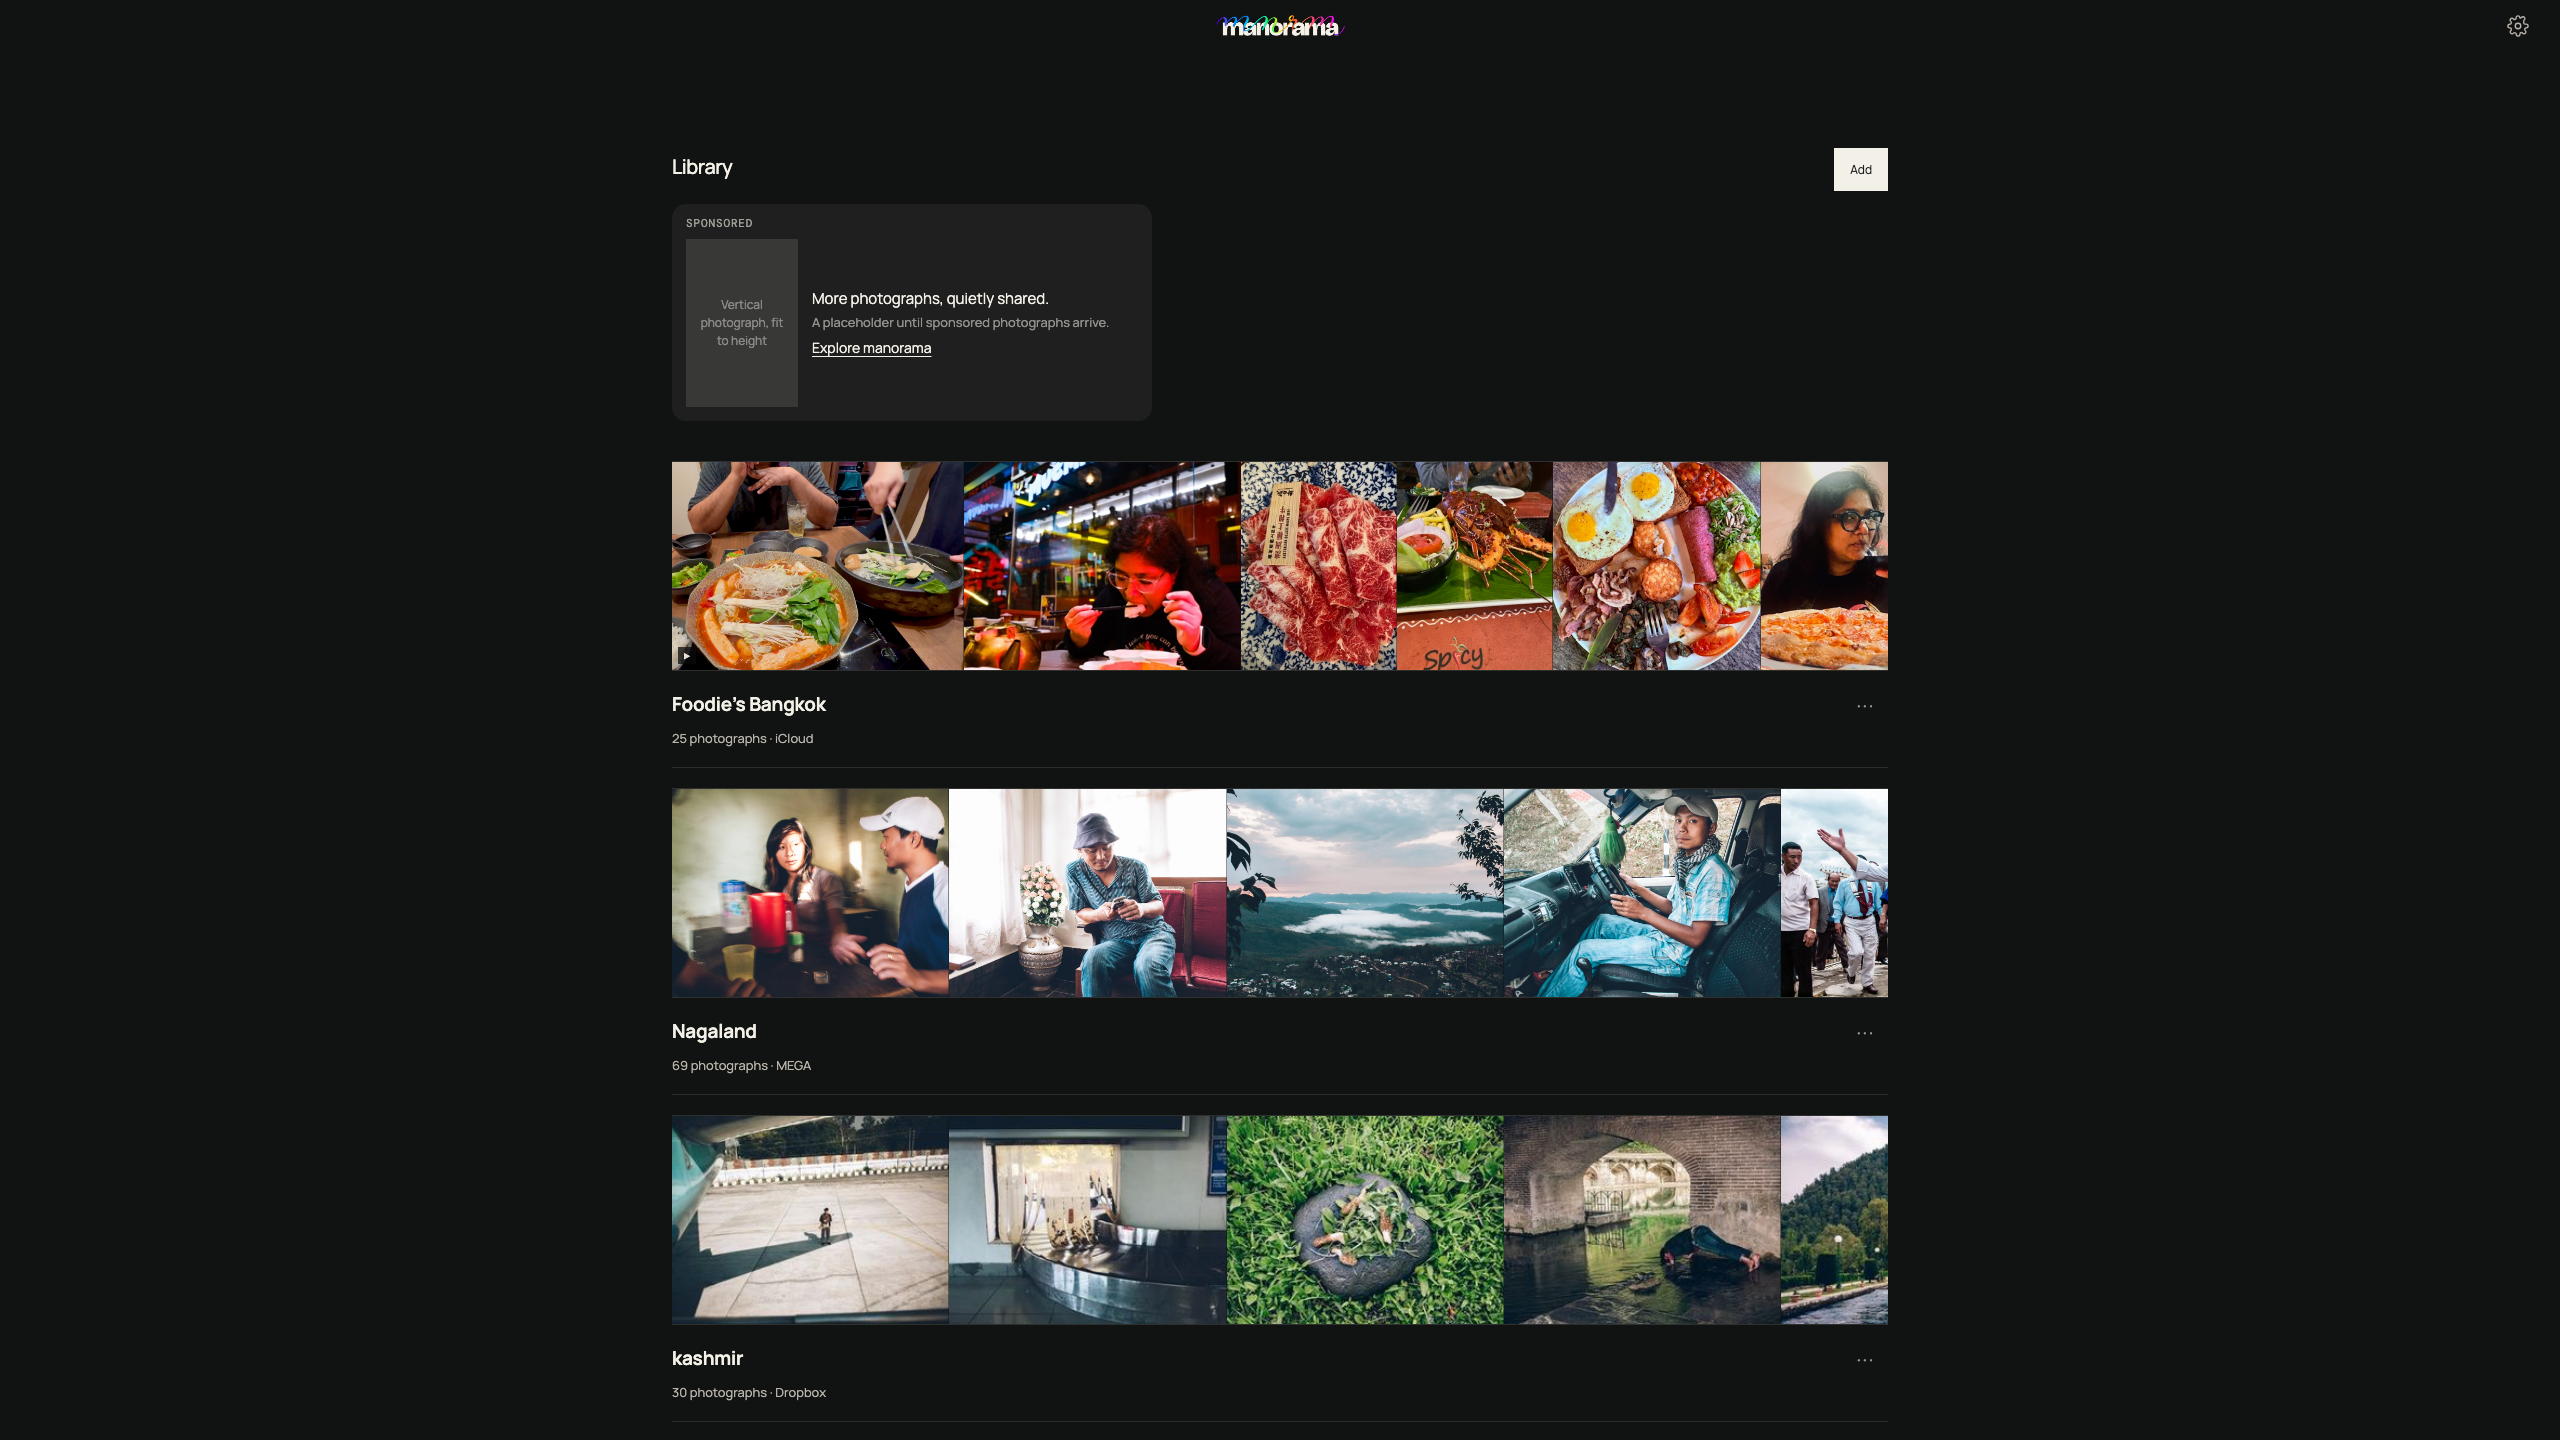
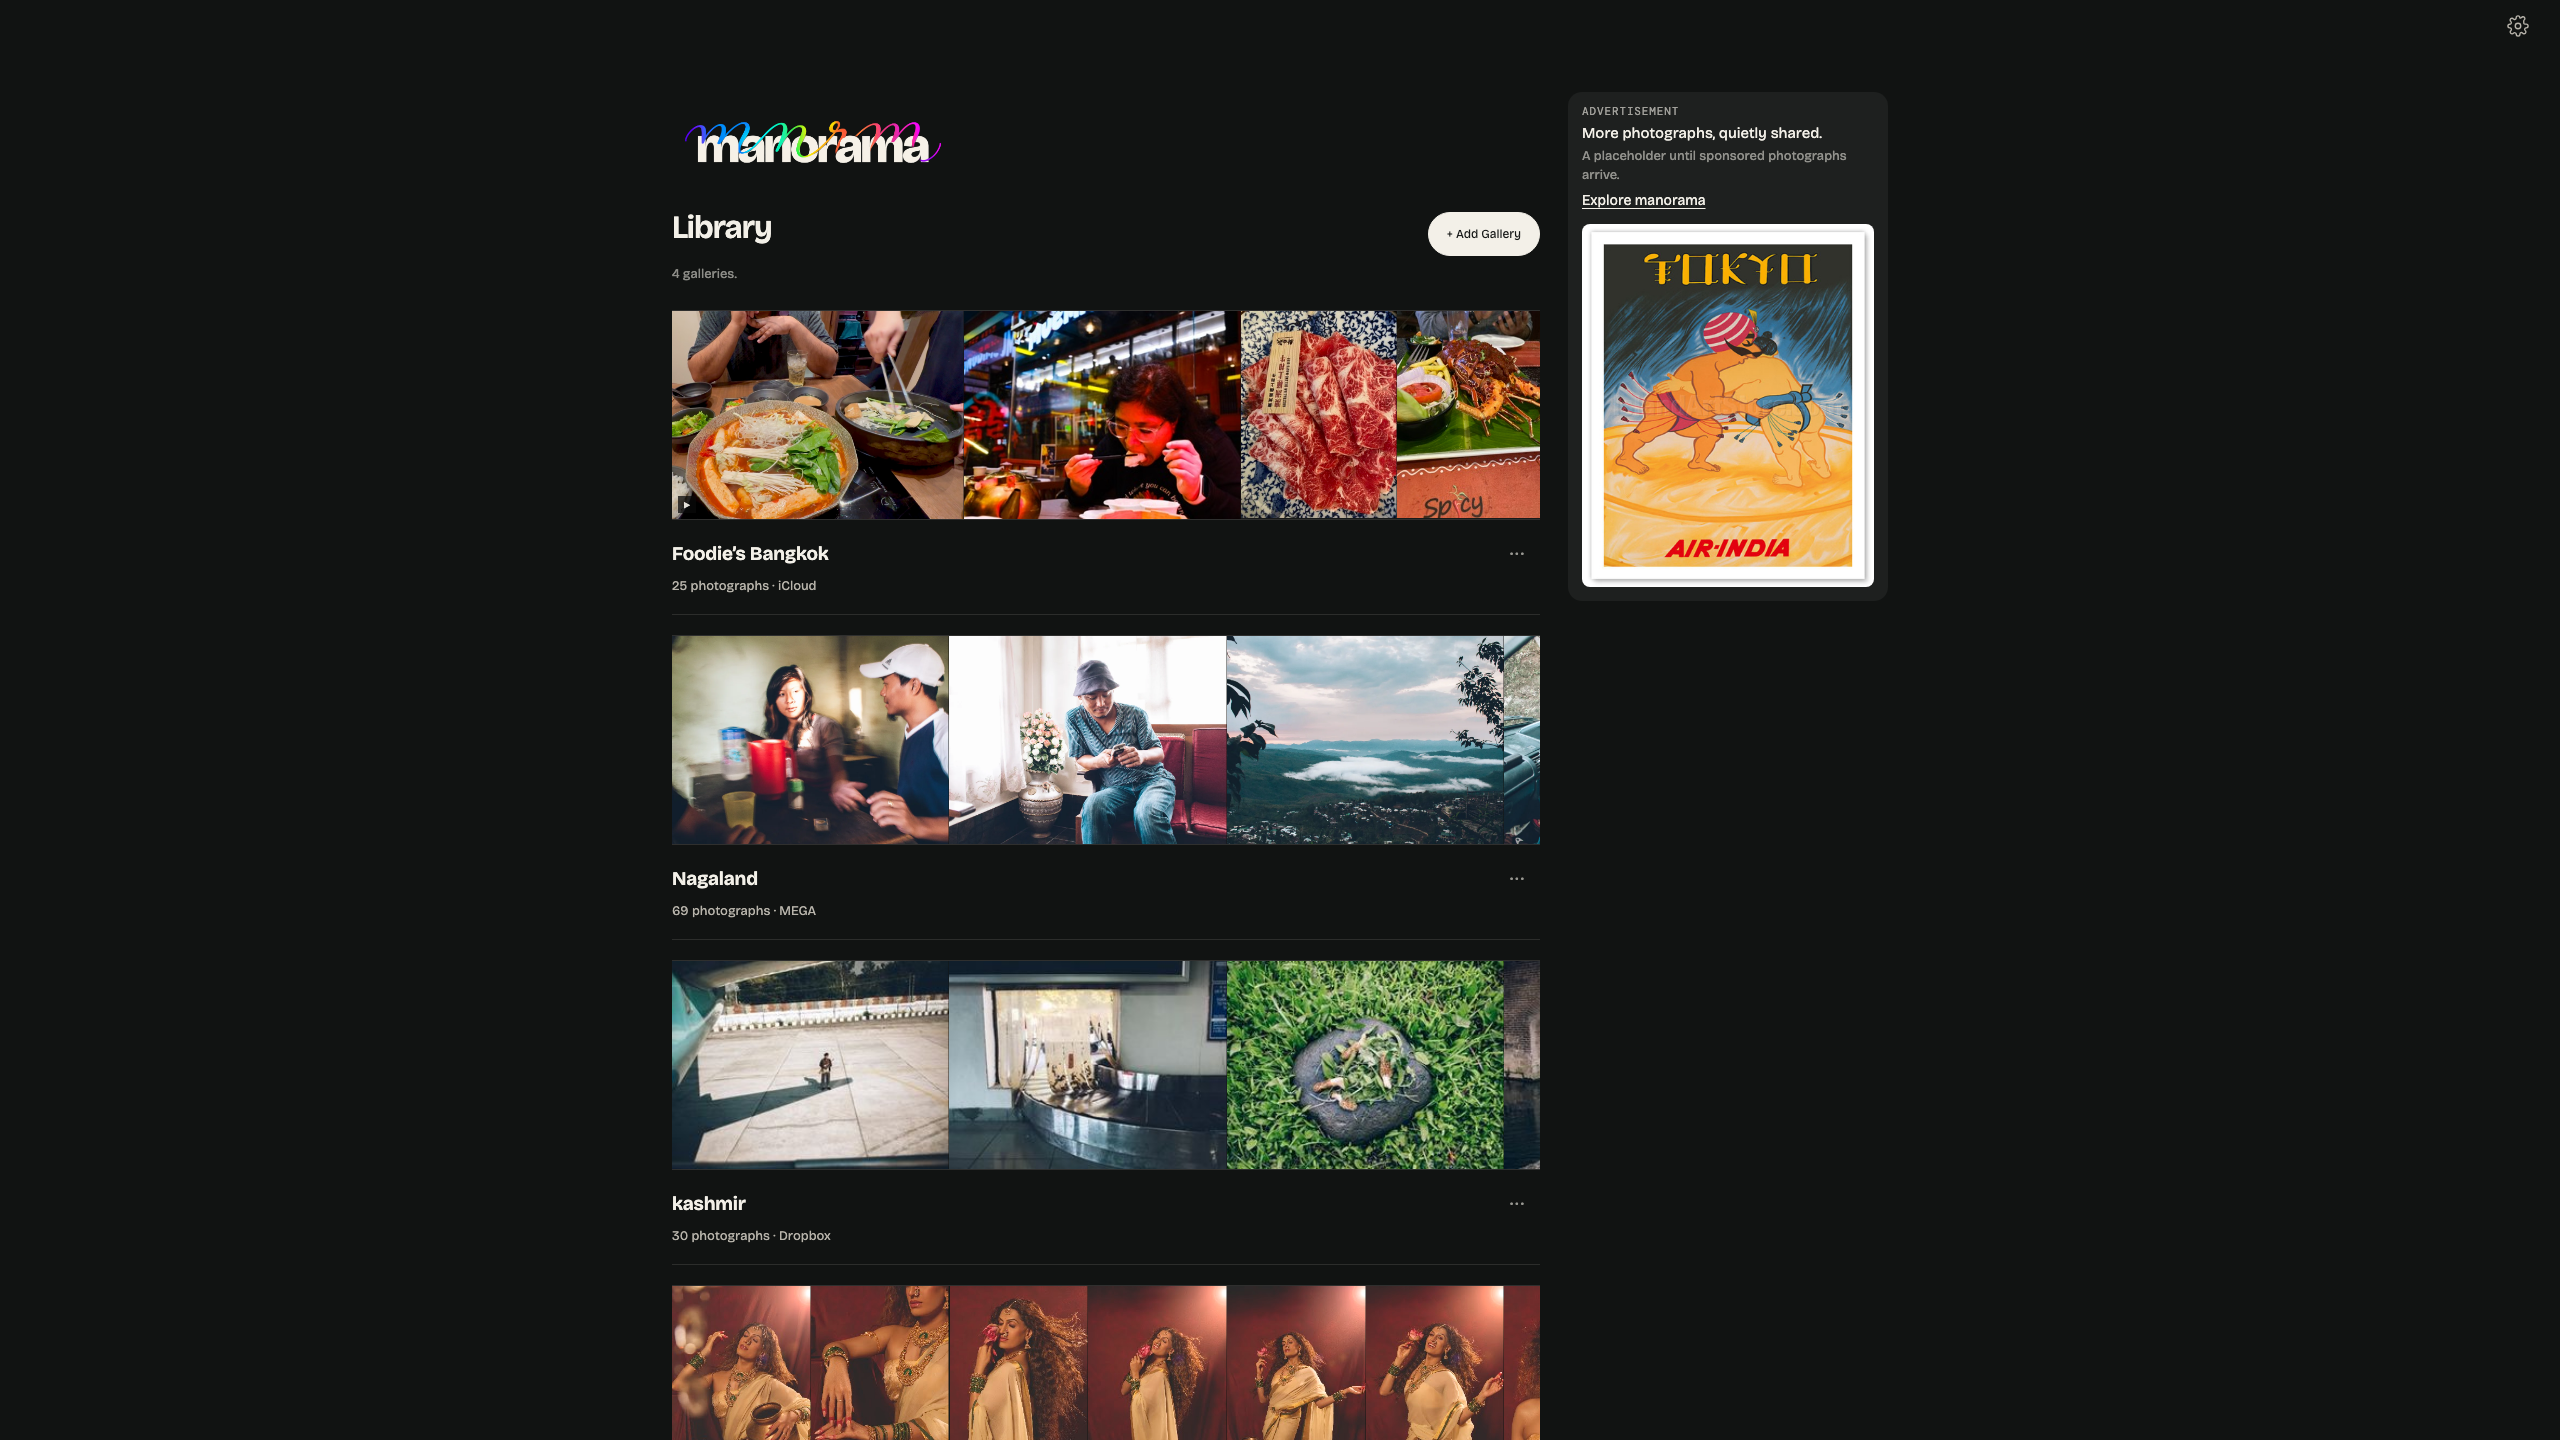
feat(admin): enlarge the wordmark and float the sponsored slot
The Library leads with the wordmark at 2x in the content column, its
left edge square on the heading so the "m" sits over the "L" — the top
bar keeps only the gear. The sponsored slot moves out of the absolute
rail into a second grid column sized narrower; the card sticks at its
top offset while the list scrolls beneath it. Its media is now a
definite-width panel the creative fits whole — the old fit-content
sizing left the image nothing definite to measure its cap against,
which is how the right edge got clipped. Segmentation still returns
the slot to the flow inside the leading segment.

diff --git a/app/styles.css b/app/styles.css
@@ -986,7 +986,7 @@ html.light .admin-button--solid { color: #e9e5dc; }
 html.light .admin-button--solid:hover, html.light .admin-button--solid:focus-visible { border-color: #000; background: #000; color: #e9e5dc; }
 html.light .admin-button:hover, html.light .admin-button:focus-visible { color: #000; }
 html.light .admin-button--solid:hover, html.light .admin-button--solid:focus-visible { color: #e9e5dc; }
-html.light .admin-page :is(.m-topbar-logo, .landing-brand-mark) { filter: brightness(0); }
+html.light .admin-page :is(.m-topbar-logo, .landing-brand-mark, .admin-brand-mark) { filter: brightness(0); }
 
 /* ── M magnifier ─────────────────────────────────────────────────────
    A glass ball that replaces the cursor. Fixed to the viewport and
@@ -1634,6 +1634,7 @@ body:has(.ops-page) { overflow: auto; overflow-x: clip; background: #111312; }
 .admin-page--selector input::placeholder { color: rgba(var(--ink), var(--admin-muted)); opacity: 1; }
 
 .admin-galleries-heading { margin: 0; color: rgb(var(--ink)); font-size: 32px; font-weight: 600; letter-spacing: -.03em; }
+.admin-brand-mark { display: block; width: 280px; height: auto; margin: 4px 0 18px; }
 .admin-library-heading { display: flex; align-items: baseline; justify-content: space-between; gap: 16px; }
 .admin-library-sub { margin: 10px 0 28px; color: rgba(var(--ink), .55); font-size: 13px; }
 .admin-add-pill { border-radius: 999px; padding: 9px 18px; margin: 0; min-height: var(--m-touch); }
@@ -1688,31 +1689,49 @@ body:has(.ops-page) { overflow: auto; overflow-x: clip; background: #111312; }
 .account-ad-cta { margin-top: 8px; color: rgb(var(--ink)); font-size: 14px; line-height: 1.2; text-underline-offset: 3px; }
 
 @media (min-width: 900px) {
-  /* The sponsored slot docks as a right rail — only when a placement
-     actually renders. --has-ad marks that, so a suppressed, absent or
-     unavailable ad never leaves an empty gutter, and the macOS catalogue
-     (same classes, never renders .account-ad) inherits nothing. */
-  .admin-page--selector .gallery-list--has-ad { position: relative; padding-right: clamp(300px, 32vw, 460px); }
+  /* The sponsored slot lives in a second grid column — only when a
+     placement actually renders. --has-ad marks that, so a suppressed,
+     absent or unavailable ad never leaves an empty gutter, and the macOS
+     catalogue (same classes, never renders .account-ad) inherits nothing.
+     The column is sticky-height, so the card stays on screen while the
+     list scrolls beneath it. */
+  .admin-page--selector .gallery-list--has-ad {
+    display: grid;
+    grid-template-columns: minmax(0, 1fr) clamp(220px, 24vw, 320px);
+    column-gap: 28px;
+    align-items: start;
+    padding-right: 0;
+  }
+  .admin-page--selector .gallery-list--has-ad > :not(.account-ad) { grid-column: 1; }
   .admin-page--selector .gallery-list--has-ad > .account-ad {
-    position: absolute;
-    top: 0;
-    right: 0;
-    width: clamp(280px, 30vw, 430px);
-    height: min(76vh, 700px);
+    grid-column: 2;
+    grid-row: 1 / span 4;
+    position: sticky;
+    top: 16px;
+    width: 100%;
+    height: auto;
+    max-height: calc(100vh - 32px);
     margin: 0;
   }
-  /* In the rail the media height-fills the card; the box hugs the image's
-     own width and centres horizontally in whatever room is left. */
+  /* In the rail the media is a definite-width panel claiming the room left
+     below the copy; the image fits inside it whole — capped on both axes,
+     ratio kept, never cropped. fit-content would leave the image nothing
+     definite to measure its caps against, which is how it got clipped. */
   .admin-page--selector .gallery-list--has-ad > .account-ad .account-ad-media {
     flex: 1 1 auto;
     min-height: 0;
-    width: fit-content;
+    width: 100%;
     aspect-ratio: auto;
-    max-width: 100%;
     display: grid;
     place-items: center;
   }
-  .admin-page--selector .gallery-list--has-ad > .account-ad .account-ad-media img { width: auto; height: 100%; max-width: none; }
+  .admin-page--selector .gallery-list--has-ad > .account-ad .account-ad-media img {
+    width: auto;
+    height: auto;
+    max-width: 100%;
+    max-height: 100%;
+    object-fit: contain;
+  }
 }
 
 /* A surface panel never straddles the hinge — the sponsored slot stays
@@ -1720,7 +1739,7 @@ body:has(.ops-page) { overflow: auto; overflow-x: clip; background: #111312; }
    single-window layout: under segmentation the ad returns to the flow so
    it can neither straddle the hinge nor cover the content column, and the
    reserved gutter goes with it. */
-.admin-page[data-admin-segmented] .gallery-list--has-ad { padding-right: 0; }
+.admin-page[data-admin-segmented] .gallery-list--has-ad { display: block; padding-right: 0; }
 .admin-page[data-admin-segmented] .gallery-list--has-ad > .account-ad {
   position: static;
   height: auto;

diff --git a/admin-appearance.playwright.ts b/admin-appearance.playwright.ts
@@ -41,10 +41,10 @@ for (const size of sizes) {
         await expect(topbar).toBeVisible()
         await expect(gear).toBeVisible()
         await expect(topbar.locator('.m-topbar-logo')).toHaveCount(0)
-        const heroMark = page.locator('.admin-hero-brand .landing-brand-mark')
+        const heroMark = page.locator('.admin-brand-mark')
         await expect(heroMark).toHaveAttribute('src', '/manorama-merged-logo.png')
         const heroBox = (await heroMark.boundingBox())!
-        expect(heroBox.width).toBeGreaterThan(280)
+        expect(heroBox.width).toBeGreaterThanOrEqual(280)
         const gearBox = await gear.boundingBox()
         expect(gearBox!.x).toBeGreaterThan(size.width / 2)
         expect(gearBox!.width).toBeGreaterThanOrEqual(44)
@@ -61,8 +61,30 @@ for (const size of sizes) {
         expect(headingBox.y).toBeGreaterThanOrEqual(heroBox.y + heroBox.height)
         const sponsoredBox = (await sponsored.boundingBox())!
         const cardBox = (await firstCard.boundingBox())!
-        expect(sponsoredBox.y).toBeGreaterThanOrEqual(headingBox.y + headingBox.height)
-        expect(cardBox.y).toBeGreaterThanOrEqual(sponsoredBox.y + sponsoredBox.height)
+        if (size.width >= 900) {
+          // Wide: the slot is the grid's second column, beside the list —
+          // and its left edge never invades the content column.
+          expect(sponsoredBox.x).toBeGreaterThanOrEqual(cardBox.x + cardBox.width - 1)
+          // The mark's left edge squares on the heading's — "m" over "L".
+          expect(Math.abs(heroBox.x - headingBox.x)).toBeLessThan(2)
+          // The creative fits its media box whole — never cropped.
+          const mediaBox = (await sponsored.locator('.account-ad-media').boundingBox())!
+          const adImgBox = (await sponsored.locator('img').boundingBox())!
+          expect(adImgBox.x).toBeGreaterThanOrEqual(mediaBox.x - 1)
+          expect(adImgBox.x + adImgBox.width).toBeLessThanOrEqual(mediaBox.x + mediaBox.width + 1)
+          // Sticky: scrolling the list keeps the card on screen at its
+          // reserved top offset, while the cards pass underneath.
+          await page.evaluate(() => window.scrollBy(0, 600))
+          const stuckBox = (await sponsored.boundingBox())!
+          expect(stuckBox.y).toBeLessThanOrEqual(20)
+          expect(stuckBox.y + stuckBox.height).toBeGreaterThan(0)
+          await page.evaluate(() => window.scrollTo(0, 0))
+        } else {
+          // Narrow: the slot stays in flow — under the heading, above the
+          // first card.
+          expect(sponsoredBox.y).toBeGreaterThanOrEqual(headingBox.y + headingBox.height)
+          expect(cardBox.y).toBeGreaterThanOrEqual(sponsoredBox.y + sponsoredBox.height)
+        }
 
         for (const theme of ['dark', 'light'] as const) {
           await gear.click()

diff --git a/app/islands/Admin.tsx b/app/islands/Admin.tsx
@@ -705,7 +705,7 @@ export default function Admin({ galleries: initialGalleries, owner, ownerName, p
           The edge tab and account drawer are gone (D6) — Settings is the
           pushed surface it always was, Privacy lives on it and in the site
           footer. */}
-      <TopBar end={(
+      <TopBar logo={false} end={(
         <button type="button" class="m-btn m-btn--quiet m-iconbtn" aria-label="Settings" onClick={openSettings}>
           <svg viewBox="0 0 24 24" aria-hidden="true" width="22" height="22" fill="none" stroke="currentColor" stroke-width="1.5"><circle cx="12" cy="12" r="3" /><path d="M19.4 15a1.7 1.7 0 0 0 .3 1.8l.1.1a2 2 0 1 1-2.8 2.8l-.1-.1a1.7 1.7 0 0 0-1.8-.3 1.7 1.7 0 0 0-1 1.5V21a2 2 0 1 1-4 0v-.1a1.7 1.7 0 0 0-1.1-1.5 1.7 1.7 0 0 0-1.8.3l-.1.1a2 2 0 1 1-2.8-2.8l.1-.1a1.7 1.7 0 0 0 .3-1.8 1.7 1.7 0 0 0-1.5-1H3a2 2 0 1 1 0-4h.1a1.7 1.7 0 0 0 1.5-1.1 1.7 1.7 0 0 0-.3-1.8l-.1-.1a2 2 0 1 1 2.8-2.8l.1.1a1.7 1.7 0 0 0 1.8.3H9a1.7 1.7 0 0 0 1-1.5V3a2 2 0 1 1 4 0v.1a1.7 1.7 0 0 0 1.8-.3l.1-.1a2 2 0 1 1 2.8 2.8l-.1.1a1.7 1.7 0 0 0-.3 1.8V9a1.7 1.7 0 0 0 1.5 1H21a2 2 0 1 1 0 4h-.1a1.7 1.7 0 0 0-1.5 1z" /></svg>
         </button>
@@ -713,9 +713,10 @@ export default function Admin({ galleries: initialGalleries, owner, ownerName, p
       {/* Import and curation remain usable at any window or segment width. */}
       <div class="admin-content">
       <section class={adsShow && accountAd ? 'gallery-list gallery-list--has-ad' : 'gallery-list'} aria-labelledby="galleries-heading">
-        {/* The owner header is compact: Library and Add share one row under
-            the shared topbar mark — the landing-sized wordmark stays on
-            Welcome (TASTE-01). */}
+        {/* The owner header leads with the wordmark in the content column —
+            the mark's left edge is the heading's left edge, so the "m" sits
+            squarely over the "L" of Library. */}
+        <img class="admin-brand-mark" src="/manorama-merged-logo.png" alt="manorama" width="280" height="94" />
         <div class="admin-library-heading">
           <h1 class="admin-galleries-heading" id="galleries-heading">Library</h1>
           <button type="button" class="admin-button admin-button--solid admin-add-pill" onClick={() => { setAddError(null); setAddOpen(true) }} disabled={busy}><span aria-hidden="true">+</span> Add Gallery</button>

diff --git a/qa.playwright.ts b/qa.playwright.ts
@@ -2413,10 +2413,16 @@ test("owner admin lists galleries without a selector and remains noindex", async
   await expect(
     page.locator(".lib-card").first().locator(".lib-card-sub"),
   ).toContainText(/\d+ photographs?/);
-  // The shared top bar carries the only mark — the compact header contract.
-  await expect(
-    page.locator(".m-topbar-logo"),
-  ).toHaveAttribute("src", "/manorama-merged-logo.png");
+  // The wordmark leads the content column at 2x, its left edge square on
+  // the heading's — the "m" sits over the "L" of Library.
+  const brandMark = page.locator(".admin-brand-mark");
+  await expect(brandMark).toHaveAttribute("src", "/manorama-merged-logo.png");
+  const brandBox = (await brandMark.boundingBox())!;
+  const headingBox = (await page
+    .locator("h1.admin-galleries-heading")
+    .boundingBox())!;
+  expect(Math.abs(brandBox.x - headingBox.x)).toBeLessThan(2);
+  expect(brandBox.width).toBeGreaterThanOrEqual(280);
   await expect(page.locator(".admin-section-index")).toHaveCount(0);
   await expect(page.getByText("View gallery")).toHaveCount(0);
   await expect(page.locator(".lib-card .admin-eyebrow")).toHaveCount(0);
